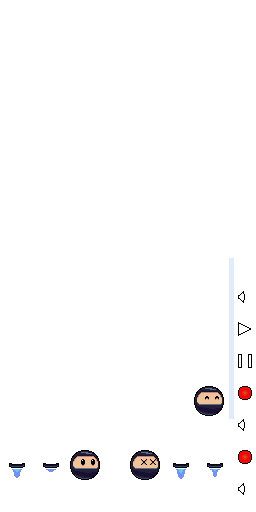
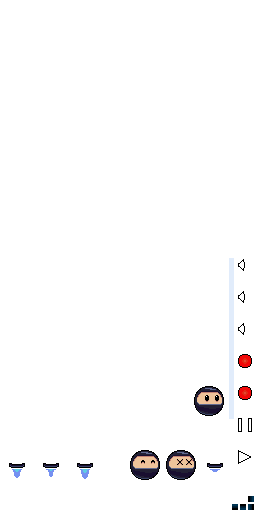
Add files via upload

diff --git a/data.js b/data.js
@@ -1,1 +1,1 @@
-{"project":["Space Cowboy",null,[[0,false,true,true,true,true,true,true,true,false],[2,true,false,false,false,false,false,false,false,false],[3,true,false,false,false,false,false,false,false,false],[4,false,true,true,true,true,true,true,true,false],[6,true,false,false,false,false,false,false,false,false],[7,true,false,false,false,false,false,false,false,false]],[["obj_player",0,false,[475478660255610,235114772657448,759754990357066,369172576946413,189401473353637,768985400023830,915678371539958,958940585535050,191258554294712],1,0,null,[["BallReg",5,false,1,0,false,480393047755055,[["images/shared-0-sheet0.png",9486,69,449,32,32,1,0.5,0.5,[],[],0]]],["BallBlink",5,false,1,0,false,527114630573643,[["images/shared-0-sheet0.png",9486,193,385,32,32,1,0.5,0.5,[],[],0]]],["BallDead",5,false,1,0,false,368496386664004,[["images/shared-0-sheet0.png",9486,129,449,32,32,1,0.5,0.5,[],[],0]]]],[["Physics",1,285668147981242]],false,false,767591352997976,[],null],["obj_death",0,false,[],1,0,null,[["Animation 1",5,false,1,0,false,427797562592884,[["images/shared-0-sheet0.png",9486,237,449,16,16,1,0.5,0.5,[],[-0.375,-0.375,0,-0.5,0.3125,-0.375,0.4375,0,0.3125,0.3125,0,0.4375,-0.375,0.3125,-0.5,0],0]]]],[["Physics",1,235015879555317]],false,false,393649305652718,[],null],["obj_dir",0,false,[],0,0,null,[["BoostOff",5,false,1,0,false,528335494616684,[["images/shared-0-sheet0.png",9486,35,449,32,32,1,0.5,0,[],[0,0.09375,-0.21875,0.5,0,0.15625,-0.21875,0.5],0]]],["BoostOn",20,true,1,0,false,536623433101878,[["images/shared-0-sheet0.png",9486,1,449,32,32,1,0.5,0,[],[],0],["images/shared-0-sheet0.png",9486,199,449,32,32,1,0.5,0,[],[],0],["images/shared-0-sheet0.png",9486,165,449,32,32,1,0.5,0,[],[],0]]]],[],false,false,375676578344658,[],null],["Keyboard",2,false,[],0,0,null,null,[],false,false,940749085455245,[],null,[]],["obj_target",0,false,[401085688764310],0,0,null,[["Animation 1",5,false,1,0,false,535705894602725,[["images/shared-0-sheet0.png",9486,1,433,128,8,1,0.5,0.5,[],[-0.375,-0.375,0,-0.5,0.3125,-0.375,0.4375,0,0.3125,0.3125,0,0.4375,-0.375,0.3125,-0.5,0],0]]]],[],false,false,918124345788002,[],null],["Sprite",0,false,[],1,0,null,[["Animation 1",5,false,1,0,false,270983069689819,[["images/shared-0-sheet0.png",9486,228,257,7,163,1,0.42857142857142855,0.39263803680981596,[],[-0.42857142857142855,-0.38650306748466257,0.5714285714285714,-0.38650306748466257,0.5714285714285714,0.6073619631901841,-0.42857142857142855,0.6073619631901841],0]]]],[["Physics",1,955098228799132]],false,false,709606981210529,[],null],["obj_death_ran",0,false,[],1,0,null,[["Animation 1",5,false,1,0,false,881640508627181,[["images/shared-0-sheet0.png",9486,237,385,16,16,1,0.5,0.5,[],[-0.375,-0.375,0,-0.5,0.3125,-0.375,0.4375,0,0.3125,0.3125,0,0.4375,-0.375,0.3125,-0.5,0],0]]]],[["Physics",1,389150187473823]],false,false,287168445202780,[],null],["Touch",3,false,[],0,0,null,null,[],false,false,683709736571280,[],null,[true]],["txt_score",4,false,[],0,0,null,null,[],false,false,821789348260884,[],null],["HighScore",4,false,[614689598860658],1,0,null,null,[["Persist",5,450925603406630]],false,false,521596468085115,[],null],["obj_pause",0,false,[770781241998109],0,0,null,[["Pause",5,false,1,0,false,257569451720424,[["images/shared-0-sheet0.png",9486,237,353,16,16,1,0.5,0.5,[],[-0.5,-0.5,0.4375,-0.5,0.4375,0,0.4375,0.4375,-0.5,0.4375,-0.5,0],0]]],["Play",5,false,1,0,false,758647843386098,[["images/shared-0-sheet0.png",9486,237,321,16,16,1,0.5,0.5,[],[-0.5,-0.5,0,-0.25,0.125,-0.1875,0.4375,0,0.125,0.125,0,0.1875,-0.5,0.4375,-0.5,0],0]]]],[],false,false,462081807219076,[],null],["obj_sound",0,false,[],0,0,null,[["sound_0",5,false,1,0,false,406058263105111,[["images/shared-0-sheet0.png",9486,237,289,16,16,1,0.5,0.5,[],[-0.25,-0.25,0,-0.1875,0.125,-0.1875,0.25,0,0.125,0.125,0,0.125,-0.25,0.1875,-0.5,0],0]]],["sound_50",5,false,1,0,false,189582158038451,[["images/shared-0-sheet0.png",9486,237,481,16,16,1,0.5,0.5,[],[-0.25,-0.25,0,-0.1875,0.1875,-0.25,0.1875,0,0.1875,0.1875,0,0.125,-0.25,0.1875,-0.5,0],0]]],["sound_100",5,false,1,0,false,486317337061227,[["images/shared-0-sheet0.png",9486,237,417,16,16,1,0.5,0.5,[],[-0.25,-0.25,0,-0.1875,0.375,-0.4375,0.4375,0,0.375,0.375,0,0.125,-0.25,0.1875,-0.5,0],0]]]],[],false,false,906797327259692,[],null],["Audio",6,false,[],0,0,null,null,[],false,false,797499494263671,[],null,[0,0,false,1,1,600,600,10000,1]],["Subtitle",4,false,[],0,0,null,null,[],false,false,960048753552794,[],null],["deb1",4,false,[],0,0,null,null,[],false,false,475523773753119,[],null],["deb2",4,false,[],0,0,null,null,[],false,false,342995062486817,[],null],["GAMEEConnector",7,false,[],0,0,null,null,[],false,false,358125909305743,[],null,[]],["obj_tutorial",0,false,[],0,0,null,[["Animation 1",5,false,1,0,false,383140325107292,[["images/shared-0-sheet0.png",9486,1,1,225,355,1,0.5,0.5,[],[-0.3844444444444445,-0.4267605633802817,0,0.1732394366197183,0.30000000000000004,-0.376056338028169,0.2866666666666666,0,0.25555555555555554,0.34507042253521125,0,0.39859154929577467,-0.3666666666666667,0.4126760563380282,-0.35333333333333333,0],0]]]],[],false,false,531793983603734,[],null]],[],[["Layout 1",270,480,false,"Event sheet 1",172531091609061,[["Layer 1",0,524640039244700,true,[0,24,43],false,1,1,1,false,false,1,0,0,[[[18,133,0,231,200,0,0,1,0,0,0,0,[]],8,13,[],[],["0","Broadway",128,0,false,false,[0,0.3215686274509804,0.3568627450980392],1,1,0,true,0]],[[6,7,0,200,30,0,0,1,0,0,0,0,[]],9,5,[[0]],[[]],["Text","Broadway",12,0,false,false,[0,0.3215686274509804,0.3568627450980392],0,0,0,true,0]],[[253,21,0,16,16,0,0,1,0.5,0.5,0,0,[]],10,15,[[0]],[],[true,"Pause",0,true]],[[221,20,0,16,16,0,0,1,0.5,0.5,0,0,[]],11,16,[],[],[true,"sound_0",0,true]],[[65,448,0,200,30,0,0,1,0,0,0,0,[]],13,18,[],[],["Made by TinyGamesLab","Arial",9,0,true,true,[0,0.3215686274509804,0.3568627450980392],2,2,0,true,0]],[[59,86,0,200,30,0,0,0,0,0,0,0,[]],14,19,[],[],["Text","Arial",12,0,false,false,[1,1,1],0,0,0,true,0]],[[59,125,0,200,30,0,0,0,0,0,0,0,[]],15,20,[],[],["Text","Arial",12,0,false,false,[1,1,1],0,0,0,true,0]],[[138,244,0,225,355,0,0,0.5,0.5,0.5,0,0,[]],17,22,[],[],[true,"Animation 1",0,true]]],[]],["Layer 0",1,448141904110111,true,[4,102,53],true,1,1,1,false,false,1,0,0,[[[132,426,0,128,8,0,0,1,0.5,0.5,0,0,[]],4,6,[[0]],[],[true,"Animation 1",0,true]],[[136,64,0,32,32,0,0,1,0.5,0.5,0,0,[]],0,1,[[4],[1],[0],[1],[0],[20],[200],[3],[0]],[[false,0,true,1,0.5,0.2,0.3,0.01,false,true]],[true,"BallReg",0,true]],[[69,426,0,16,16,0,0,1,0.5,0.5,0,0,[]],1,2,[],[[true,0,false,1,0,1,0,0.01,false,true]],[true,"Animation 1",0,true]],[[206,-45,0,32,32,0,0,1,0.5,0,0,0,[]],2,3,[],[],[true,"BoostOff",0,true]],[[0,188.46625766871165,0,7,480,0,0,1,0.42857142857142855,0.39263803680981596,0,0,[]],5,7,[],[[true,0,false,1,0,1,0,0.01,false,true]],[true,"Animation 1",0,true]],[[270,189,0,7,480,0,0,1,0.42857142857142855,0.39263803680981596,0,0,[]],5,8,[],[[true,0,false,1,0,1,0,0.01,false,true]],[true,"Animation 1",0,true]],[[164,1,0,7,270,0,1.5707963267948966,1,0.42857142857142855,0.39263803680981596,0,0,[]],5,9,[],[[true,0,false,1,0,1,0,0.01,false,true]],[true,"Animation 1",0,true]],[[166,481,0,7,270,0,1.5707963267948966,1,0.42857142857142855,0.39263803680981596,0,0,[]],5,10,[],[[true,0,false,1,0,1,0,0.01,false,true]],[true,"Animation 1",0,true]],[[0,-56,0,16,16,0,0,1,0.5,0.5,0,0,[]],6,11,[],[[true,0,false,1,0,1,0,0.01,false,true]],[true,"Animation 1",0,true]],[[194,426,0,16,16,0,0,1,0.5,0.5,0,0,[]],1,14,[],[[true,0,false,1,0,1,0,0.01,false,true]],[true,"Animation 1",0,true]]],[]]],[],[],[]]],[["Event sheet 1",[[1,"master_sound",0,0,false,false,697209572650760,false],[0,null,false,null,570319428697560,[[16,8,null,1,false,false,false,481338190284571,false,[[3,0]]]],[[-1,9,null,900215295808529,false,[[1,[2,"Inputs"]],[3,1]]],[-1,9,null,388468914997819,false,[[1,[2,"GameRun"]],[3,1]]]]],[0,[false,"GameRun"],false,null,221386439549499,[[-1,10,null,0,false,false,false,0,false,[[1,[2,"GameRun"]]]]],[],[[0,null,false,null,815132243066720,[[-1,11,null,0,false,false,false,195700574472358,false]],[[2,12,null,368593615494693,false,[[0,[4,[20,2,13,false,null],[6,[6,[21,0,false,null,0],[21,0,false,null,1]],[21,0,false,null,3]]]]]],[2,14,null,146690551757353,false,[[0,[20,0,15,false,null]],[0,[20,0,16,false,null]]]],[0,17,"Physics",975852573198349,false,[[0,[1,0]]]],[2,18,null,940803141572906,false],[11,19,null,689997792363173,false,[[1,[10,[2,"sound_"],[19,20,[[6,[23,"master_sound"],[1,100]]]]]],[3,1]]],[12,21,null,163151541229035,false,[[0,[5,[4,[6,[3,[1,199960]],[9,[23,"master_sound"],[1,2]]],[6,[1,299960],[23,"master_sound"]]],[1,100000]]]]]],[[0,null,false,null,778833171206087,[[10,22,null,0,false,false,false,969271731360809,false,[[10,0]]]],[[-1,23,null,146334541674284,false,[[0,[1,0]]]]]],[0,null,false,null,681328343564179,[[-1,24,null,0,false,false,false,294476391078396,false]],[[-1,23,null,480665102286483,false,[[0,[1,1]]]]]],[0,null,false,null,263959749601913,[[0,25,null,0,false,true,false,127089673253294,false,[[10,4],[8,0],[7,[1,0]]]]],[[17,26,null,270129318937918,false,[[0,[1,0]]]]]]]],[0,null,false,null,427689430769369,[[0,27,null,0,false,false,true,683167384328113,false,[[4,4]]]],[[4,28,null,903271280441969,false],[1,28,null,247428763661901,false],[-1,29,null,727120685277688,false,[[4,4],[5,[1,0]],[0,[1,0]],[0,[1,0]]]],[0,30,null,997952488251937,false,[[10,4],[7,[1,1]]]],[16,31,null,161658835388654,false,[[0,[21,0,false,null,4]]]],[8,32,null,217761295152807,false,[[7,[19,20,[[21,0,false,null,4]]]]]],[12,33,null,878847008831396,false,[[2,["powerup",false]],[3,0],[0,[1,0]],[1,[2,""]]]]],[[0,null,false,null,288384124114352,[[-1,34,null,0,false,false,false,349997552239392,false,[[7,[5,[21,0,false,null,4],[6,[19,35,[[7,[21,0,false,null,4],[1,5]]]],[1,5]]]],[8,0],[7,[1,0]]]]],[[-1,29,null,145931734934084,false,[[4,6],[5,[1,0]],[0,[19,36,[[20,6,37,false,null],[5,[19,38],[20,6,37,false,null]]]]],[0,[19,36,[[20,6,39,false,null],[5,[19,40],[20,6,39,false,null]]]]]]]]],[0,null,false,null,292628093531211,[[-1,41,null,0,true,false,false,744953569535536,false]],[[4,42,null,277657435977061,false,[[10,0],[7,[19,36,[[1,0],[1,360]]]]]],[4,43,null,341732708764777,false,[[0,[5,[1,128],[6,[5,[21,0,false,null,4],[6,[19,35,[[7,[21,0,false,null,4],[1,5]]]],[1,5]]],[1,12]]]]]],[4,12,null,685444832077287,false,[[0,[21,4,false,null,0]]]],[4,14,null,611643378897644,false,[[0,[19,36,[[19,44,[[6,[19,45,[[21,4,false,null,0]]],[7,[20,4,37,false,null],[1,2]]]]],[5,[19,38],[19,44,[[6,[19,45,[[21,4,false,null,0]]],[7,[20,4,37,false,null],[1,2]]]]]]]]],[0,[19,36,[[19,44,[[6,[19,46,[[21,4,false,null,0]]],[7,[20,4,37,false,null],[1,2]]]]],[5,[19,40],[19,44,[[6,[19,46,[[21,4,false,null,0]]],[7,[20,4,37,false,null],[1,2]]]]]]]]]]]],[[0,null,false,null,796097882818383,[[-1,34,null,0,false,false,false,887015006721887,false,[[7,[19,47,[[4,[9,[5,[4,[20,4,15,false,null],[6,[19,45,[[21,4,false,null,0]]],[7,[20,4,37,false,null],[1,2]]]],[20,0,15,false,null]],[1,2]],[9,[5,[4,[20,4,16,false,null],[6,[19,46,[[21,4,false,null,0]]],[7,[20,4,37,false,null],[1,2]]]],[20,0,16,false,null]],[1,2]]]]]],[8,5],[7,[1,80]]]],[-1,34,null,0,false,false,false,379923290193694,false,[[7,[19,47,[[4,[9,[5,[5,[20,4,15,false,null],[6,[19,45,[[21,4,false,null,0]]],[7,[20,4,37,false,null],[1,2]]]],[20,0,15,false,null]],[1,2]],[9,[5,[5,[20,4,16,false,null],[6,[19,46,[[21,4,false,null,0]]],[7,[20,4,37,false,null],[1,2]]]],[20,0,16,false,null]],[1,2]]]]]],[8,5],[7,[1,80]]]]],[[-1,29,null,583358809476651,false,[[4,1],[5,[1,0]],[0,[4,[20,4,15,false,null],[6,[19,45,[[21,4,false,null,0]]],[7,[20,4,37,false,null],[1,2]]]]],[0,[4,[20,4,16,false,null],[6,[19,46,[[21,4,false,null,0]]],[7,[20,4,37,false,null],[1,2]]]]]]],[-1,29,null,449614521411888,false,[[4,1],[5,[1,0]],[0,[5,[20,4,15,false,null],[6,[19,45,[[21,4,false,null,0]]],[7,[20,4,37,false,null],[1,2]]]]],[0,[5,[20,4,16,false,null],[6,[19,46,[[21,4,false,null,0]]],[7,[20,4,37,false,null],[1,2]]]]]]],[-1,48,null,233744176713128,false]]]]]]],[0,null,false,null,941716647047889,[[0,27,null,0,false,false,true,175194047019690,false,[[4,1]]]],[[0,49,null,434300220751414,false,[[10,8]]],[12,33,null,533345338946489,false,[[2,["hit",false]],[3,0],[0,[1,0]],[1,[2,""]]]]]],[0,null,false,null,858739160077737,[[0,27,null,0,false,false,true,381298995093493,false,[[4,6]]]],[[0,49,null,232708459838967,false,[[10,8]]],[12,33,null,487875365703441,false,[[2,["hit",false]],[3,0],[0,[1,0]],[1,[2,""]]]]]],[0,null,false,null,340611518637680,[[0,22,null,0,false,false,false,994878213834040,false,[[10,8]]]],[[0,19,null,573784600725015,false,[[1,[2,"BallDead"]],[3,1]]],[-1,9,null,917368113865540,false,[[1,[2,"Inputs"]],[3,0]]],[0,42,null,995449387921734,false,[[10,3],[7,[1,0]]]],[-1,9,null,650306093625026,false,[[1,[2,"EndGame"]],[3,1]]]]]]],[0,[false,"EndGame"],false,null,689964599466642,[[-1,10,null,0,false,false,false,0,false,[[1,[2,"EndGame"]]]]],[],[[0,null,false,null,888781081672292,[[-1,50,null,0,false,false,false,700204780567979,false]],[],[[0,null,false,null,681059029383886,[[-1,34,null,0,false,false,false,115241267643170,false,[[7,[21,9,false,null,0]],[8,3],[7,[21,0,false,null,4]]]]],[[8,51,null,671183154204339,false,[[0,[19,52,[[1,0],[1,91],[1,28]]]]]],[9,53,null,177109417497339,false,[[10,0],[7,[21,0,false,null,4]]]],[-1,54,null,180379981096596,false,[[0,[1,3]]]],[-1,55,null,510851413746240,false],[16,56,null,892343299773913,false]]],[0,null,false,null,242377641482807,[[-1,24,null,0,false,false,false,671848081858361,false]],[[8,51,null,146061260247865,false,[[0,[19,52,[[1,91],[1,10],[1,0]]]]]],[-1,54,null,869623354209671,false,[[0,[1,3]]]],[-1,55,null,619711278841428,false],[16,56,null,996927699436128,false]]]]],[0,null,false,null,395890889753458,[[-1,34,null,0,false,false,false,359814597374365,false,[[7,[21,9,false,null,0]],[8,3],[7,[21,0,false,null,4]]]]],[[8,57,null,657096763255939,false,[[0,[5,[20,8,58,false,null],[1,1]]]]],[8,59,null,971623035872237,false,[[0,[5,[20,8,60,false,null],[1,0.5]]]]]]],[0,null,false,null,456201034990215,[[-1,24,null,0,false,false,false,107849726677575,false]],[[8,57,null,637372514769779,false,[[0,[4,[20,8,58,false,null],[1,1]]]]],[8,59,null,132838555022897,false,[[0,[5,[20,8,60,false,null],[1,0.5]]]]]]]]],[0,[false,"Inputs"],false,null,300098405140787,[[-1,10,null,0,false,false,false,0,false,[[1,[2,"Inputs"]]]]],[],[[0,null,false,null,255932240397024,[[7,61,null,1,false,false,false,261189439914484,false],[0,22,null,0,false,true,false,310848248116588,false,[[10,8]]],[7,62,null,0,false,true,false,368890393294030,false,[[4,10]]],[7,62,null,0,false,true,false,926423744180609,false,[[4,11]]]],[[0,63,"Physics",690390866010477,false,[[0,[19,64,[[21,0,false,null,2],[21,0,false,null,5],[21,0,false,null,6]]]],[0,[5,[20,2,13,false,null],[1,90]]],[7,[1,0]]]],[0,42,null,367015447260806,false,[[10,1],[7,[6,[3,[1,1]],[21,0,false,null,1]]]]],[0,42,null,172108760370649,false,[[10,3],[7,[1,1]]]],[0,42,null,189917004408523,false,[[10,2],[7,[1,1]]]],[2,19,null,126552923974315,false,[[1,[2,"BoostOff"]],[3,1]]],[12,65,null,642550735872787,false,[[1,[2,"chargesound"]]]],[12,33,null,338772082099265,false,[[2,["shoot",false]],[3,0],[0,[1,0]],[1,[2,""]]]]]],[0,null,false,null,908570998519044,[[7,62,null,0,false,true,false,648921319199879,false,[[4,10]]],[7,62,null,0,false,true,false,892838693938744,false,[[4,11]]],[7,66,null,0,false,false,false,938057925361520,false],[0,22,null,0,false,true,false,181483883170536,false,[[10,8]]]],[[0,30,null,372388235013520,false,[[10,2],[7,[1,4]]]],[0,42,null,855061909889665,false,[[10,3],[7,[1,0]]]],[2,19,null,683882505736289,false,[[1,[2,"BoostOn"]],[3,1]]]],[[0,null,false,null,908849890728141,[[-1,50,null,0,false,false,false,650890511889826,false]],[[12,33,null,955856773419606,false,[[2,["charge",false]],[3,1],[0,[3,[1,10]]],[1,[2,"chargesound"]]]]]]]],[0,null,false,null,152345075286665,[[3,67,null,0,false,false,false,768817603747627,false,[[9,32]]]],[[0,30,null,539226365266620,false,[[10,2],[7,[1,4]]]],[0,42,null,118450257947483,false,[[10,3],[7,[1,0]]]],[2,19,null,773187004285008,false,[[1,[2,"BoostOff"]],[3,1]]]]],[0,null,false,null,596646851505261,[[3,68,null,1,false,false,false,929280208629907,false,[[9,32]]]],[[0,63,"Physics",470655644387565,false,[[0,[19,64,[[21,0,false,null,2],[21,0,false,null,5],[21,0,false,null,6]]]],[0,[5,[20,2,13,false,null],[1,90]]],[7,[1,0]]]],[0,42,null,748313442115865,false,[[10,1],[7,[6,[3,[1,1]],[21,0,false,null,1]]]]],[0,42,null,924672570005858,false,[[10,3],[7,[1,1]]]],[0,42,null,378965404943914,false,[[10,2],[7,[1,1]]]],[2,19,null,617437014926204,false,[[1,[2,"BoostOff"]],[3,1]]]]],[0,null,false,null,254381216807868,[[-1,69,null,0,false,false,false,166147071323608,false,[[0,[21,0,false,null,7]]]]],[[0,19,null,162812484525817,false,[[1,[2,"BallBlink"]],[3,1]]],[-1,54,null,679514716812933,false,[[0,[19,36,[[1,0.1],[1,0.5]]]]]],[0,19,null,591591496780670,false,[[1,[2,"BallReg"]],[3,1]]],[0,42,null,323829758630061,false,[[10,7],[7,[19,36,[[1,1],[1,5]]]]]]]]]],[0,[true,"SoundButton"],false,null,641945997093868,[[-1,10,null,0,false,false,false,0,false,[[1,[2,"SoundButton"]]]]],[],[[0,null,false,null,334490485124026,[[7,70,null,1,false,false,false,381591151661784,false,[[4,11]]]],[[-1,71,null,715527895961915,false,[[11,"master_sound"],[7,[1,0.5]]]]],[[0,null,false,null,251820423037268,[[-1,34,null,0,false,false,false,739601135854528,false,[[7,[23,"master_sound"]],[8,4],[7,[1,1]]]]],[[-1,72,null,480228372509868,false,[[11,"master_sound"],[7,[1,0]]]]]]]]]],[0,[true,"PauseButton"],false,null,932402451187886,[[-1,10,null,0,false,false,false,0,false,[[1,[2,"PauseButton"]]]]],[],[[0,null,false,null,392429691439675,[[7,70,null,1,false,false,false,222647356513794,false,[[4,10]]]],[],[[0,null,false,null,294644352954203,[[10,22,null,0,false,true,false,478666752111711,false,[[10,0]]]],[[10,19,null,330294472204434,false,[[1,[2,"Play"]],[3,1]]],[10,49,null,499706299225337,false,[[10,0]]],[-1,9,null,402759323413910,false,[[1,[2,"Inputs"]],[3,0]]],[0,42,null,654015592819223,false,[[10,3],[7,[1,0]]]]]],[0,null,false,null,747270777255869,[[-1,24,null,0,false,false,false,404822755032626,false]],[[10,19,null,479112378446217,false,[[1,[2,"Pause"]],[3,1]]],[-1,9,null,802217660997177,false,[[1,[2,"Inputs"]],[3,1]]],[10,49,null,558141364261436,false,[[10,0]]],[0,42,null,333321403250281,false,[[10,3],[7,[1,1]]]]]]]]]],[0,null,false,null,346349061049157,[[-1,73,null,1,false,false,false,575618891040828,false]],[[9,32,null,798110693251692,false,[[7,[10,[2,"Highscore: "],[19,20,[[21,9,false,null,0]]]]]]],[0,17,"Physics",628312519393014,false,[[0,[1,0]]]]]],[0,null,false,null,988680748479301,[[16,74,null,1,false,false,false,989441627997063,false,[[3,0]]]],[[10,19,null,657918599940795,false,[[1,[2,"Play"]],[3,1]]],[10,75,null,527202054245873,false,[[10,0],[3,1]]],[-1,9,null,629855357894016,false,[[1,[2,"Inputs"]],[3,0]]],[0,42,null,993847553306774,false,[[10,3],[7,[1,0]]]]]],[0,null,false,null,564693722874664,[[16,74,null,1,false,false,false,196024442830984,false,[[3,1]]]],[[10,19,null,553276672211913,false,[[1,[2,"Pause"]],[3,1]]],[-1,9,null,841891737410368,false,[[1,[2,"Inputs"]],[3,1]]],[10,75,null,495332628533369,false,[[10,0],[3,0]]],[0,42,null,618125325818406,false,[[10,3],[7,[1,1]]]]]],[0,null,false,null,467190105753692,[[16,76,null,1,false,false,false,671155116627127,false,[[3,0]]]],[[-1,72,null,140807315816964,false,[[11,"master_sound"],[7,[1,0]]]]]],[0,null,false,null,990714778074506,[[16,76,null,1,false,false,false,628408066891951,false,[[3,1]]]],[[-1,72,null,456890023011125,false,[[11,"master_sound"],[7,[1,1]]]]]]]]],[["hit",[["audio/webm; codecs=opus",".webm",5106]],false],["powerup",[["audio/webm; codecs=opus",".webm",4832]],false],["shoot",[["audio/webm; codecs=opus",".webm",11783]],false],["charge",[["audio/webm; codecs=opus",".webm",37199]],false]],"media/",true,270,480,5,true,false,true,"1.0.0.0",true,false,4,1,23,false,false,1,true,false,[],"icons/",[],true]}
+{"project":["Space Cowboy",null,[[0,false,true,true,true,true,true,true,true,false],[2,true,false,false,false,false,false,false,false,false],[3,true,false,false,false,false,false,false,false,false],[4,false,true,true,true,true,true,true,true,false],[6,true,false,false,false,false,false,false,false,false],[7,true,false,false,false,false,false,false,false,false]],[["obj_player",0,false,[475478660255610,235114772657448,759754990357066,369172576946413,189401473353637,768985400023830,915678371539958,958940585535050,191258554294712],1,0,null,[["BallReg",5,false,1,0,false,480393047755055,[["images/shared-0-sheet0.png",9767,193,385,32,32,1,0.5,0.5,[],[],0]]],["BallBlink",5,false,1,0,false,527114630573643,[["images/shared-0-sheet0.png",9767,129,449,32,32,1,0.5,0.5,[],[],0]]],["BallDead",5,false,1,0,false,368496386664004,[["images/shared-0-sheet0.png",9767,165,449,32,32,1,0.5,0.5,[],[],0]]]],[["Physics",1,285668147981242]],false,false,767591352997976,[],null],["obj_death",0,false,[],1,0,null,[["Animation 1",5,false,1,0,false,427797562592884,[["images/shared-0-sheet0.png",9767,237,353,16,16,1,0.5,0.5,[],[-0.375,-0.375,0,-0.5,0.3125,-0.375,0.4375,0,0.3125,0.3125,0,0.4375,-0.375,0.3125,-0.5,0],0]]]],[["Physics",1,235015879555317]],false,false,393649305652718,[],null],["obj_dir",0,false,[],0,0,null,[["BoostOff",5,false,1,0,false,528335494616684,[["images/shared-0-sheet0.png",9767,199,449,32,32,1,0.5,0,[],[0,0.09375,-0.21875,0.5,0,0.15625,-0.21875,0.5],0]]],["BoostOn",20,true,1,0,false,536623433101878,[["images/shared-0-sheet0.png",9767,1,449,32,32,1,0.5,0,[],[],0],["images/shared-0-sheet0.png",9767,35,449,32,32,1,0.5,0,[],[],0],["images/shared-0-sheet0.png",9767,69,449,32,32,1,0.5,0,[],[],0]]]],[],false,false,375676578344658,[],null],["Keyboard",2,false,[],0,0,null,null,[],false,false,940749085455245,[],null,[]],["obj_target",0,false,[401085688764310],0,0,null,[["Animation 1",5,false,1,0,false,535705894602725,[["images/shared-0-sheet0.png",9767,1,433,128,8,1,0.5,0.5,[],[-0.375,-0.375,0,-0.5,0.3125,-0.375,0.4375,0,0.3125,0.3125,0,0.4375,-0.375,0.3125,-0.5,0],0]]]],[],false,false,918124345788002,[],null],["Sprite",0,false,[],1,0,null,[["Animation 1",5,false,1,0,false,270983069689819,[["images/shared-0-sheet0.png",9767,228,257,7,163,1,0.42857142857142855,0.39263803680981596,[],[-0.42857142857142855,-0.38650306748466257,0.5714285714285714,-0.38650306748466257,0.5714285714285714,0.6073619631901841,-0.42857142857142855,0.6073619631901841],0]]]],[["Physics",1,955098228799132]],false,false,709606981210529,[],null],["obj_death_ran",0,false,[],1,0,null,[["Animation 1",5,false,1,0,false,881640508627181,[["images/shared-0-sheet0.png",9767,237,385,16,16,1,0.5,0.5,[],[-0.375,-0.375,0,-0.5,0.3125,-0.375,0.4375,0,0.3125,0.3125,0,0.4375,-0.375,0.3125,-0.5,0],0]]]],[["Physics",1,389150187473823]],false,false,287168445202780,[],null],["Touch",3,false,[],0,0,null,null,[],false,false,683709736571280,[],null,[true]],["txt_score",4,false,[],0,0,null,null,[],false,false,821789348260884,[],null],["HighScore",4,false,[614689598860658,383595969520068],1,0,null,null,[["Persist",5,450925603406630]],false,false,521596468085115,[],null],["obj_pause",0,false,[770781241998109],0,0,null,[["Pause",5,false,1,0,false,257569451720424,[["images/shared-0-sheet0.png",9767,237,417,16,16,1,0.5,0.5,[],[-0.5,-0.5,0.4375,-0.5,0.4375,0,0.4375,0.4375,-0.5,0.4375,-0.5,0],0]]],["Play",5,false,1,0,false,758647843386098,[["images/shared-0-sheet0.png",9767,237,449,16,16,1,0.5,0.5,[],[-0.5,-0.5,0,-0.25,0.125,-0.1875,0.4375,0,0.125,0.125,0,0.1875,-0.5,0.4375,-0.5,0],0]]]],[],false,false,462081807219076,[],null],["obj_sound",0,false,[],0,0,null,[["sound_0",5,false,1,0,false,406058263105111,[["images/shared-0-sheet0.png",9767,237,257,16,16,1,0.5,0.5,[],[-0.25,-0.25,0,-0.1875,0.125,-0.1875,0.25,0,0.125,0.125,0,0.125,-0.25,0.1875,-0.5,0],0]]],["sound_50",5,false,1,0,false,189582158038451,[["images/shared-0-sheet0.png",9767,237,289,16,16,1,0.5,0.5,[],[-0.25,-0.25,0,-0.1875,0.1875,-0.25,0.1875,0,0.1875,0.1875,0,0.125,-0.25,0.1875,-0.5,0],0]]],["sound_100",5,false,1,0,false,486317337061227,[["images/shared-0-sheet0.png",9767,237,321,16,16,1,0.5,0.5,[],[-0.25,-0.25,0,-0.1875,0.375,-0.4375,0.4375,0,0.375,0.375,0,0.125,-0.25,0.1875,-0.5,0],0]]]],[],false,false,906797327259692,[],null],["Audio",6,false,[],0,0,null,null,[],false,false,797499494263671,[],null,[0,0,false,1,1,600,600,10000,1]],["Subtitle",4,false,[],0,0,null,null,[],false,false,960048753552794,[],null],["deb1",4,false,[],0,0,null,null,[],false,false,475523773753119,[],null],["deb2",4,false,[],0,0,null,null,[],false,false,342995062486817,[],null],["GAMEEConnector",7,false,[],0,0,null,null,[],false,false,358125909305743,[],null,[]],["obj_tutorial",0,false,[],0,0,null,[["Animation 1",5,false,1,0,false,383140325107292,[["images/shared-0-sheet0.png",9767,1,1,225,355,1,0.5,0.5,[],[-0.3844444444444445,-0.4267605633802817,0,0.1732394366197183,0.30000000000000004,-0.376056338028169,0.2866666666666666,0,0.25555555555555554,0.34507042253521125,0,0.39859154929577467,-0.3666666666666667,0.4126760563380282,-0.35333333333333333,0],0]]]],[],false,false,531793983603734,[],null],["Border_L",0,false,[],1,0,null,[["Animation 1",5,false,1,0,false,328056703504428,[["images/shared-0-sheet0.png",9767,249,497,4,4,1,0.5,0.5,[],[-0.5,-0.5,0,-0.5,0.25,-0.5,0.25,0,0.25,0.25,0,0.25,-0.5,0.25,-0.5,0],0]]]],[["Physics",1,845452133785162]],false,false,286932285499222,[],null],["Border_T",0,false,[],1,0,null,[["Animation 1",5,false,1,0,false,487713507721194,[["images/shared-0-sheet0.png",9767,241,505,4,4,1,0.5,0.5,[],[-0.5,-0.5,0,-0.5,0.25,-0.5,0.25,0,0.25,0.25,0,0.25,-0.5,0.25,-0.5,0],0]]]],[["Physics",1,488738463141027]],false,false,187381117609735,[],null],["Border_R",0,false,[],1,0,null,[["Animation 1",5,false,1,0,false,606247639170209,[["images/shared-0-sheet0.png",9767,249,505,4,4,1,0.5,0.5,[],[-0.5,-0.5,0,-0.5,0.25,-0.5,0.25,0,0.25,0.25,0,0.25,-0.5,0.25,-0.5,0],0]]]],[["Physics",1,815349400353158]],false,false,636096765433324,[],null],["Border_D",0,false,[],1,0,null,[["Animation 1",5,false,1,0,false,311701169541669,[["images/shared-0-sheet0.png",9767,233,505,4,4,1,0.5,0.5,[],[-0.5,-0.5,0,-0.5,0.25,-0.5,0.25,0,0.25,0.25,0,0.25,-0.5,0.25,-0.5,0],0]]]],[["Physics",1,845984739317299]],false,false,384362185433336,[],null]],[],[["Layout 1",270,480,false,"Event sheet 1",172531091609061,[["Layer 1",0,524640039244700,true,[0,24,43],false,1,1,1,false,false,1,0,0,[[[18,133,0,231,200,0,0,1,0,0,0,0,[]],8,13,[],[],["0","Broadway",128,0,false,false,[0,0.3215686274509804,0.3568627450980392],1,1,0,true,0]],[[6,7,0,200,30,0,0,1,0,0,0,0,[]],9,5,[[0],[0]],[[]],["Text","Broadway",12,0,false,false,[0,0.3215686274509804,0.3568627450980392],0,0,0,true,0]],[[253,21,0,16,16,0,0,1,0.5,0.5,0,0,[]],10,15,[[0]],[],[true,"Pause",0,true]],[[221,20,0,16,16,0,0,1,0.5,0.5,0,0,[]],11,16,[],[],[true,"sound_0",0,true]],[[65,448,0,200,30,0,0,1,0,0,0,0,[]],13,18,[],[],["Made by TinyGamesLab","Arial",9,0,true,true,[0,0.3215686274509804,0.3568627450980392],2,2,0,true,0]],[[59,86,0,200,30,0,0,0,0,0,0,0,[]],14,19,[],[],["Text","Arial",12,0,false,false,[1,1,1],0,0,0,true,0]],[[59,125,0,200,30,0,0,0,0,0,0,0,[]],15,20,[],[],["Text","Arial",12,0,false,false,[1,1,1],0,0,0,true,0]],[[138,244,0,225,355,0,0,0.5,0.5,0.5,0,0,[]],17,22,[],[],[true,"Animation 1",0,true]],[[321,77,0,4,4,0,0,1,0.5,0.5,0,0,[]],18,23,[],[[true,0,false,1,0,1,0,0.01,false,true]],[true,"Animation 1",0,true]],[[321,99,0,4,4,0,0,1,0.5,0.5,0,0,[]],19,24,[],[[true,0,false,1,0,1,0,0.01,false,true]],[true,"Animation 1",0,true]],[[317,138,0,4,4,0,0,1,0.5,0.5,0,0,[]],20,25,[],[[true,0,false,1,0,1,0,0.01,false,true]],[true,"Animation 1",0,true]],[[318,182,0,4,4,0,0,1,0.5,0.5,0,0,[]],21,26,[],[[true,0,false,1,0,1,0,0.01,false,true]],[true,"Animation 1",0,true]]],[]],["Layer 0",1,448141904110111,true,[4,102,53],true,1,1,1,false,false,1,0,0,[[[132,426,0,128,8,0,0,1,0.5,0.5,0,0,[]],4,6,[[0]],[],[true,"Animation 1",0,true]],[[136,64,0,32,32,0,0,1,0.5,0.5,0,0,[]],0,1,[[4],[1],[0],[1],[0],[20],[200],[3],[0]],[[false,0,true,1,0.5,0.2,0.3,0.01,false,true]],[true,"BallReg",0,true]],[[69,426,0,16,16,0,0,1,0.5,0.5,0,0,[]],1,2,[],[[true,0,false,1,0,1,0,0.01,false,true]],[true,"Animation 1",0,true]],[[44,-278,0,32,32,0,0,1,0.5,0,0,0,[]],2,3,[],[],[true,"BoostOff",0,true]],[[7,-263,0,16,16,0,0,1,0.5,0.5,0,0,[]],6,11,[],[[true,0,false,1,0,1,0,0.01,false,true]],[true,"Animation 1",0,true]],[[194,426,0,16,16,0,0,1,0.5,0.5,0,0,[]],1,14,[],[[true,0,false,1,0,1,0,0.01,false,true]],[true,"Animation 1",0,true]]],[]]],[],[],[]]],[["Event sheet 1",[[1,"master_sound",0,0,false,false,697209572650760,false],[1,"HGscore",0,0,false,false,821685692765458,false],[0,null,false,null,570319428697560,[[16,8,null,1,false,false,false,481338190284571,false,[[3,0]]]],[[-1,9,null,900215295808529,false,[[1,[2,"Inputs"]],[3,1]]],[-1,9,null,388468914997819,false,[[1,[2,"GameRun"]],[3,1]]],[9,10,null,121967349175681,false,[[10,0],[7,[19,11,[[20,16,12,true,null]]]]]],[9,13,null,674322832054628,false,[[7,[10,[2,"Best: "],[19,14,[[21,9,false,null,0]]]]]]]]],[0,[false,"GameRun"],false,null,221386439549499,[[-1,15,null,0,false,false,false,0,false,[[1,[2,"GameRun"]]]]],[],[[0,null,false,null,815132243066720,[[-1,16,null,0,false,false,false,195700574472358,false]],[[2,17,null,368593615494693,false,[[0,[4,[20,2,18,false,null],[6,[6,[21,0,false,null,0],[21,0,false,null,1]],[21,0,false,null,3]]]]]],[2,19,null,146690551757353,false,[[0,[20,0,20,false,null]],[0,[20,0,21,false,null]]]],[0,22,"Physics",975852573198349,false,[[0,[1,0]]]],[2,23,null,940803141572906,false],[11,24,null,689997792363173,false,[[1,[10,[2,"sound_"],[19,14,[[6,[23,"master_sound"],[1,100]]]]]],[3,1]]],[12,25,null,163151541229035,false,[[0,[5,[4,[6,[3,[1,199960]],[9,[23,"master_sound"],[1,2]]],[6,[1,299960],[23,"master_sound"]]],[1,100000]]]]],[9,10,null,602806803646157,false,[[10,1],[7,[23,"master_sound"]]]],[21,26,null,324228834803169,false,[[0,[19,27]]]],[21,19,null,375336198313428,false,[[0,[7,[19,27],[1,2]]],[0,[5,[19,28],[1,2]]]]],[19,26,null,876245558492124,false,[[0,[19,27]]]],[19,19,null,857795581321387,false,[[0,[7,[19,27],[1,2]]],[0,[1,2]]]],[18,29,null,513735484882043,false,[[0,[19,28]]]],[18,19,null,625535714606470,false,[[0,[1,2]],[0,[7,[19,28],[1,2]]]]],[20,29,null,152119080778174,false,[[0,[19,28]]]],[20,19,null,168327772300898,false,[[0,[5,[19,27],[1,2]]],[0,[7,[19,28],[1,2]]]]]],[[0,null,false,null,778833171206087,[[10,30,null,0,false,false,false,969271731360809,false,[[10,0]]]],[[-1,31,null,146334541674284,false,[[0,[1,0]]]]]],[0,null,false,null,681328343564179,[[-1,32,null,0,false,false,false,294476391078396,false]],[[-1,31,null,480665102286483,false,[[0,[1,1]]]]]],[0,null,false,null,263959749601913,[[0,33,null,0,false,true,false,127089673253294,false,[[10,4],[8,0],[7,[1,0]]]]],[[17,34,null,121990937544805,false,[[0,[19,35,[[5,[20,17,36,false,null],[1,0.5]],[1,0]]]]]]]]]],[0,null,false,null,427689430769369,[[0,37,null,0,false,false,true,683167384328113,false,[[4,4]]]],[[4,38,null,903271280441969,false],[1,38,null,247428763661901,false],[-1,39,null,727120685277688,false,[[4,4],[5,[1,0]],[0,[1,0]],[0,[1,0]]]],[0,40,null,997952488251937,false,[[10,4],[7,[1,1]]]],[16,41,null,161658835388654,false,[[0,[21,0,false,null,4]]]],[8,13,null,217761295152807,false,[[7,[19,14,[[21,0,false,null,4]]]]]],[12,42,null,878847008831396,false,[[2,["powerup",false]],[3,0],[0,[1,0]],[1,[2,""]]]],[16,43,null,887305460328382,false,[[1,[19,14,[[19,35,[[21,0,false,null,4],[21,9,false,null,0]]]]]]]]],[[0,null,false,null,288384124114352,[[-1,44,null,0,false,false,false,349997552239392,false,[[7,[5,[21,0,false,null,4],[6,[19,45,[[7,[21,0,false,null,4],[1,5]]]],[1,5]]]],[8,0],[7,[1,0]]]]],[[-1,39,null,404323787285371,false,[[4,6],[5,[1,0]],[0,[19,46,[[20,6,47,false,null],[5,[19,48],[20,6,47,false,null]]]]],[0,[19,46,[[20,6,49,false,null],[5,[19,50],[20,6,49,false,null]]]]]]]]],[0,null,false,null,292628093531211,[[-1,51,null,0,true,false,false,744953569535536,false]],[[4,52,null,277657435977061,false,[[10,0],[7,[19,46,[[1,0],[1,360]]]]]],[4,26,null,341732708764777,false,[[0,[5,[1,128],[6,[5,[21,0,false,null,4],[6,[19,45,[[7,[21,0,false,null,4],[1,5]]]],[1,5]]],[1,12]]]]]],[4,17,null,685444832077287,false,[[0,[21,4,false,null,0]]]],[4,19,null,886148129603496,false,[[0,[19,46,[[19,53,[[6,[19,54,[[21,4,false,null,0]]],[7,[20,4,47,false,null],[1,2]]]]],[5,[19,48],[19,53,[[6,[19,54,[[21,4,false,null,0]]],[7,[20,4,47,false,null],[1,2]]]]]]]]],[0,[19,46,[[19,53,[[6,[19,55,[[21,4,false,null,0]]],[7,[20,4,47,false,null],[1,2]]]]],[5,[19,50],[19,53,[[6,[19,55,[[21,4,false,null,0]]],[7,[20,4,47,false,null],[1,2]]]]]]]]]]]],[[0,null,false,null,796097882818383,[[-1,44,null,0,false,false,false,887015006721887,false,[[7,[19,56,[[4,[9,[5,[4,[20,4,20,false,null],[6,[19,54,[[21,4,false,null,0]]],[7,[20,4,47,false,null],[1,2]]]],[20,0,20,false,null]],[1,2]],[9,[5,[4,[20,4,21,false,null],[6,[19,55,[[21,4,false,null,0]]],[7,[20,4,47,false,null],[1,2]]]],[20,0,21,false,null]],[1,2]]]]]],[8,5],[7,[1,80]]]],[-1,44,null,0,false,false,false,379923290193694,false,[[7,[19,56,[[4,[9,[5,[5,[20,4,20,false,null],[6,[19,54,[[21,4,false,null,0]]],[7,[20,4,47,false,null],[1,2]]]],[20,0,20,false,null]],[1,2]],[9,[5,[5,[20,4,21,false,null],[6,[19,55,[[21,4,false,null,0]]],[7,[20,4,47,false,null],[1,2]]]],[20,0,21,false,null]],[1,2]]]]]],[8,5],[7,[1,80]]]]],[[-1,39,null,583358809476651,false,[[4,1],[5,[1,0]],[0,[4,[20,4,20,false,null],[6,[19,54,[[21,4,false,null,0]]],[7,[20,4,47,false,null],[1,2]]]]],[0,[4,[20,4,21,false,null],[6,[19,55,[[21,4,false,null,0]]],[7,[20,4,47,false,null],[1,2]]]]]]],[-1,39,null,449614521411888,false,[[4,1],[5,[1,0]],[0,[5,[20,4,20,false,null],[6,[19,54,[[21,4,false,null,0]]],[7,[20,4,47,false,null],[1,2]]]]],[0,[5,[20,4,21,false,null],[6,[19,55,[[21,4,false,null,0]]],[7,[20,4,47,false,null],[1,2]]]]]]],[-1,57,null,233744176713128,false]]]]]]],[0,null,false,null,941716647047889,[[0,37,null,0,false,false,true,175194047019690,false,[[4,1]]]],[[0,58,null,434300220751414,false,[[10,8]]],[12,59,null,617678370617471,false],[12,42,null,533345338946489,false,[[2,["hit",false]],[3,0],[0,[1,0]],[1,[2,""]]]]]],[0,null,false,null,858739160077737,[[0,37,null,0,false,false,true,381298995093493,false,[[4,6]]]],[[0,58,null,232708459838967,false,[[10,8]]],[12,59,null,551997119010546,false],[12,42,null,487875365703441,false,[[2,["hit",false]],[3,0],[0,[1,0]],[1,[2,""]]]]]],[0,null,false,null,340611518637680,[[0,30,null,0,false,false,false,994878213834040,false,[[10,8]]]],[[0,24,null,573784600725015,false,[[1,[2,"BallDead"]],[3,1]]],[-1,9,null,917368113865540,false,[[1,[2,"Inputs"]],[3,0]]],[0,52,null,995449387921734,false,[[10,3],[7,[1,0]]]],[-1,9,null,650306093625026,false,[[1,[2,"EndGame"]],[3,1]]]]]]],[0,[false,"EndGame"],false,null,689964599466642,[[-1,15,null,0,false,false,false,0,false,[[1,[2,"EndGame"]]]]],[],[[0,null,false,null,888781081672292,[[-1,60,null,0,false,false,false,700204780567979,false]],[],[[0,null,false,null,681059029383886,[[-1,44,null,0,false,false,false,115241267643170,false,[[7,[21,9,false,null,0]],[8,3],[7,[21,0,false,null,4]]]]],[[8,61,null,671183154204339,false,[[0,[19,62,[[1,0],[1,91],[1,28]]]]]],[9,10,null,177109417497339,false,[[10,0],[7,[21,0,false,null,4]]]],[-1,63,null,180379981096596,false,[[0,[1,3]]]],[-1,64,null,510851413746240,false],[16,65,null,892343299773913,false]]],[0,null,false,null,242377641482807,[[-1,32,null,0,false,false,false,671848081858361,false]],[[8,61,null,146061260247865,false,[[0,[19,62,[[1,91],[1,10],[1,0]]]]]],[-1,63,null,869623354209671,false,[[0,[1,3]]]],[-1,64,null,619711278841428,false],[16,65,null,996927699436128,false]]]]],[0,null,false,null,395890889753458,[[-1,44,null,0,false,false,false,359814597374365,false,[[7,[21,9,false,null,0]],[8,3],[7,[21,0,false,null,4]]]]],[[8,66,null,657096763255939,false,[[0,[5,[20,8,67,false,null],[1,1]]]]],[8,68,null,971623035872237,false,[[0,[5,[20,8,69,false,null],[1,0.5]]]]]]],[0,null,false,null,456201034990215,[[-1,32,null,0,false,false,false,107849726677575,false]],[[8,66,null,637372514769779,false,[[0,[4,[20,8,67,false,null],[1,1]]]]],[8,68,null,132838555022897,false,[[0,[5,[20,8,69,false,null],[1,0.5]]]]]]]]],[0,[false,"Inputs"],false,null,300098405140787,[[-1,15,null,0,false,false,false,0,false,[[1,[2,"Inputs"]]]]],[],[[0,null,false,null,255932240397024,[[7,70,null,1,false,false,false,261189439914484,false],[0,30,null,0,false,true,false,310848248116588,false,[[10,8]]],[7,71,null,0,false,true,false,368890393294030,false,[[4,10]]],[7,71,null,0,false,true,false,926423744180609,false,[[4,11]]]],[[0,72,"Physics",690390866010477,false,[[0,[19,73,[[21,0,false,null,2],[21,0,false,null,5],[21,0,false,null,6]]]],[0,[5,[20,2,18,false,null],[1,90]]],[7,[1,0]]]],[0,52,null,367015447260806,false,[[10,1],[7,[6,[3,[1,1]],[21,0,false,null,1]]]]],[0,52,null,172108760370649,false,[[10,3],[7,[1,1]]]],[0,52,null,189917004408523,false,[[10,2],[7,[1,1]]]],[2,24,null,126552923974315,false,[[1,[2,"BoostOff"]],[3,1]]],[12,74,null,642550735872787,false,[[1,[2,"chargesound"]]]],[12,42,null,338772082099265,false,[[2,["shoot",false]],[3,0],[0,[1,0]],[1,[2,""]]]]]],[0,null,false,null,908570998519044,[[7,71,null,0,false,true,false,648921319199879,false,[[4,10]]],[7,71,null,0,false,true,false,892838693938744,false,[[4,11]]],[7,75,null,0,false,false,false,938057925361520,false],[0,30,null,0,false,true,false,181483883170536,false,[[10,8]]]],[[0,40,null,372388235013520,false,[[10,2],[7,[1,4]]]],[0,52,null,855061909889665,false,[[10,3],[7,[1,0]]]],[2,24,null,683882505736289,false,[[1,[2,"BoostOn"]],[3,1]]]],[[0,null,false,null,908849890728141,[[-1,60,null,0,false,false,false,650890511889826,false]],[[12,42,null,955856773419606,false,[[2,["charge",false]],[3,1],[0,[3,[1,10]]],[1,[2,"chargesound"]]]]]]]],[0,null,false,null,152345075286665,[[3,76,null,0,false,false,false,768817603747627,false,[[9,32]]]],[[0,40,null,539226365266620,false,[[10,2],[7,[1,4]]]],[0,52,null,118450257947483,false,[[10,3],[7,[1,0]]]],[2,24,null,773187004285008,false,[[1,[2,"BoostOff"]],[3,1]]]]],[0,null,false,null,596646851505261,[[3,77,null,1,false,false,false,929280208629907,false,[[9,32]]]],[[0,72,"Physics",470655644387565,false,[[0,[19,73,[[21,0,false,null,2],[21,0,false,null,5],[21,0,false,null,6]]]],[0,[5,[20,2,18,false,null],[1,90]]],[7,[1,0]]]],[0,52,null,748313442115865,false,[[10,1],[7,[6,[3,[1,1]],[21,0,false,null,1]]]]],[0,52,null,924672570005858,false,[[10,3],[7,[1,1]]]],[0,52,null,378965404943914,false,[[10,2],[7,[1,1]]]],[2,24,null,617437014926204,false,[[1,[2,"BoostOff"]],[3,1]]]]],[0,null,false,null,254381216807868,[[-1,78,null,0,false,false,false,166147071323608,false,[[0,[21,0,false,null,7]]]]],[[0,24,null,162812484525817,false,[[1,[2,"BallBlink"]],[3,1]]],[-1,63,null,679514716812933,false,[[0,[19,46,[[1,0.1],[1,0.5]]]]]],[0,24,null,591591496780670,false,[[1,[2,"BallReg"]],[3,1]]],[0,52,null,323829758630061,false,[[10,7],[7,[19,46,[[1,1],[1,5]]]]]]]]]],[0,[true,"SoundButton"],false,null,641945997093868,[[-1,15,null,0,false,false,false,0,false,[[1,[2,"SoundButton"]]]]],[],[[0,null,false,null,334490485124026,[[7,79,null,1,false,false,false,381591151661784,false,[[4,11]]]],[[-1,80,null,715527895961915,false,[[11,"master_sound"],[7,[1,0.5]]]]],[[0,null,false,null,251820423037268,[[-1,44,null,0,false,false,false,739601135854528,false,[[7,[23,"master_sound"]],[8,4],[7,[1,1]]]]],[[-1,81,null,480228372509868,false,[[11,"master_sound"],[7,[1,0]]]]]]]]]],[0,[true,"PauseButton"],false,null,932402451187886,[[-1,15,null,0,false,false,false,0,false,[[1,[2,"PauseButton"]]]]],[],[[0,null,false,null,392429691439675,[[7,79,null,1,false,false,false,222647356513794,false,[[4,10]]]],[],[[0,null,false,null,294644352954203,[[10,30,null,0,false,true,false,478666752111711,false,[[10,0]]]],[[10,24,null,330294472204434,false,[[1,[2,"Play"]],[3,1]]],[10,58,null,499706299225337,false,[[10,0]]],[-1,9,null,402759323413910,false,[[1,[2,"Inputs"]],[3,0]]],[0,52,null,654015592819223,false,[[10,3],[7,[1,0]]]]]],[0,null,false,null,747270777255869,[[-1,32,null,0,false,false,false,404822755032626,false]],[[10,24,null,479112378446217,false,[[1,[2,"Pause"]],[3,1]]],[-1,9,null,802217660997177,false,[[1,[2,"Inputs"]],[3,1]]],[10,58,null,558141364261436,false,[[10,0]]],[0,52,null,333321403250281,false,[[10,3],[7,[1,1]]]]]]]]]],[0,null,false,null,346349061049157,[[-1,82,null,1,false,false,false,575618891040828,false]],[[9,13,null,109791629263845,false,[[7,[10,[2,"Best: "],[19,14,[[21,9,false,null,0]]]]]]],[0,22,"Physics",628312519393014,false,[[0,[1,0]]]],[-1,81,null,524222242601513,false,[[11,"master_sound"],[7,[21,9,false,null,1]]]],[21,19,null,215379929869551,false,[[0,[7,[19,27],[1,2]]],[0,[5,[19,28],[1,2]]]]],[21,26,null,154113070201958,false,[[0,[19,27]]]],[19,19,null,433048197462499,false,[[0,[7,[19,27],[1,2]]],[0,[1,2]]]],[19,26,null,994016369344813,false,[[0,[19,27]]]],[18,19,null,400892735932526,false,[[0,[1,2]],[0,[7,[19,28],[1,2]]]]],[18,29,null,796554103276531,false,[[0,[19,28]]]],[20,19,null,158998259469797,false,[[0,[5,[19,27],[1,2]]],[0,[7,[19,28],[1,2]]]]],[20,29,null,113662216489452,false,[[0,[19,28]]]]],[[0,null,false,null,591819889198734,[[-1,44,null,0,false,false,false,111636566211847,false,[[7,[19,11,[[20,16,12,true,null]]]],[8,4],[7,[21,9,false,null,0]]]]],[[9,10,null,536511933251045,false,[[10,0],[7,[19,11,[[20,16,12,true,null]]]]]],[9,13,null,884742838487260,false,[[7,[10,[2,"Best: "],[19,14,[[21,9,false,null,0]]]]]]]]]]],[0,null,false,null,988680748479301,[[16,83,null,1,false,false,false,989441627997063,false,[[3,0]]]],[[10,24,null,657918599940795,false,[[1,[2,"Play"]],[3,1]]],[10,84,null,527202054245873,false,[[10,0],[3,1]]],[-1,9,null,629855357894016,false,[[1,[2,"Inputs"]],[3,0]]],[0,52,null,993847553306774,false,[[10,3],[7,[1,0]]]]]],[0,null,false,null,564693722874664,[[16,83,null,1,false,false,false,196024442830984,false,[[3,1]]]],[[10,24,null,553276672211913,false,[[1,[2,"Pause"]],[3,1]]],[-1,9,null,841891737410368,false,[[1,[2,"Inputs"]],[3,1]]],[10,84,null,495332628533369,false,[[10,0],[3,0]]],[0,52,null,618125325818406,false,[[10,3],[7,[1,1]]]]]],[0,null,false,null,467190105753692,[[16,85,null,1,false,false,false,671155116627127,false,[[3,0]]]],[[-1,81,null,140807315816964,false,[[11,"master_sound"],[7,[1,0]]]]]],[0,null,false,null,990714778074506,[[16,85,null,1,false,false,false,628408066891951,false,[[3,1]]]],[[-1,81,null,456890023011125,false,[[11,"master_sound"],[7,[1,1]]]]]]]]],[["hit",[["audio/webm; codecs=opus",".webm",5106]],false],["powerup",[["audio/webm; codecs=opus",".webm",4832]],false],["shoot",[["audio/webm; codecs=opus",".webm",11783]],false],["charge",[["audio/webm; codecs=opus",".webm",37199]],false]],"media/",true,270,480,3,true,false,true,"1.0.0.0",true,false,4,1,27,false,true,1,true,false,[],"icons/",[],true]}

diff --git a/c2runtime.js b/c2runtime.js
@@ -31749,6 +31749,11 @@ cr.getObjectRefTable = function () {
 		cr.plugins_.GAMEEConnector,
 		cr.plugins_.GAMEEConnector.prototype.cnds.onGameStart,
 		cr.system_object.prototype.acts.SetGroupActive,
+		cr.plugins_.Text.prototype.acts.SetInstanceVar,
+		cr.system_object.prototype.exps["int"],
+		cr.plugins_.GAMEEConnector.prototype.exps.SaveState,
+		cr.plugins_.Text.prototype.acts.SetText,
+		cr.system_object.prototype.exps.str,
 		cr.system_object.prototype.cnds.IsGroupActive,
 		cr.system_object.prototype.cnds.EveryTick,
 		cr.plugins_.Sprite.prototype.acts.SetAngle,
@@ -31759,40 +31764,44 @@ cr.getObjectRefTable = function () {
 		cr.behaviors.Physics.prototype.acts.SetWorldGravity,
 		cr.plugins_.Sprite.prototype.acts.MoveToBottom,
 		cr.plugins_.Sprite.prototype.acts.SetAnim,
-		cr.system_object.prototype.exps.str,
 		cr.plugins_.Audio.prototype.acts.SetMasterVolume,
+		cr.plugins_.Sprite.prototype.acts.SetWidth,
+		cr.system_object.prototype.exps.windowwidth,
+		cr.system_object.prototype.exps.windowheight,
+		cr.plugins_.Sprite.prototype.acts.SetHeight,
 		cr.plugins_.Sprite.prototype.cnds.IsBoolInstanceVarSet,
 		cr.system_object.prototype.acts.SetTimescale,
 		cr.system_object.prototype.cnds.Else,
 		cr.plugins_.Sprite.prototype.cnds.CompareInstanceVar,
 		cr.plugins_.Sprite.prototype.acts.SetOpacity,
+		cr.system_object.prototype.exps.max,
+		cr.plugins_.Sprite.prototype.exps.Opacity,
 		cr.plugins_.Sprite.prototype.cnds.OnCollision,
 		cr.plugins_.Sprite.prototype.acts.Destroy,
 		cr.system_object.prototype.acts.CreateObject,
 		cr.plugins_.Sprite.prototype.acts.AddInstanceVar,
 		cr.plugins_.GAMEEConnector.prototype.acts.UpdateScore,
-		cr.plugins_.Text.prototype.acts.SetText,
 		cr.plugins_.Audio.prototype.acts.Play,
+		cr.plugins_.GAMEEConnector.prototype.acts.SaveState,
 		cr.system_object.prototype.cnds.Compare,
 		cr.system_object.prototype.exps.floor,
 		cr.system_object.prototype.exps.random,
 		cr.plugins_.Sprite.prototype.exps.Width,
-		cr.system_object.prototype.exps.windowwidth,
+		cr.system_object.prototype.exps.layoutwidth,
 		cr.plugins_.Sprite.prototype.exps.Height,
-		cr.system_object.prototype.exps.windowheight,
+		cr.system_object.prototype.exps.layoutheight,
 		cr.system_object.prototype.cnds.While,
 		cr.plugins_.Sprite.prototype.acts.SetInstanceVar,
-		cr.plugins_.Sprite.prototype.acts.SetWidth,
 		cr.system_object.prototype.exps.abs,
 		cr.system_object.prototype.exps.cos,
 		cr.system_object.prototype.exps.sin,
 		cr.system_object.prototype.exps.sqrt,
 		cr.system_object.prototype.acts.StopLoop,
 		cr.plugins_.Sprite.prototype.acts.ToggleBoolInstanceVar,
+		cr.plugins_.Audio.prototype.acts.StopAll,
 		cr.system_object.prototype.cnds.TriggerOnce,
 		cr.plugins_.Text.prototype.acts.SetFontColor,
 		cr.system_object.prototype.exps.rgb,
-		cr.plugins_.Text.prototype.acts.SetInstanceVar,
 		cr.system_object.prototype.acts.Wait,
 		cr.system_object.prototype.acts.RestartLayout,
 		cr.plugins_.GAMEEConnector.prototype.acts.GameOver,

diff --git a/offline.js b/offline.js
@@ -1,1 +1,1 @@
-{"version":1519502314413,"fileList":["box2d.asm.js","c2runtime.js","data.js","start.js","style.css","offlineClient.js","images/shared-0-sheet0.png","opus.js","opus.asm.js","opus.asm.js.mem","opus.wasm.js","opus.wasm.wasm","media/hit.webm","media/powerup.webm","media/shoot.webm","media/charge.webm","icons/loading-logo.png","icons/icon-16.png","icons/icon-32.png","icons/icon-64.png","icons/icon-128.png","icons/icon-256.png","icons/icon-512.png","register-sw.js"]}
+{"version":1519576947399,"fileList":["box2d.asm.js","c2runtime.js","data.js","start.js","style.css","offlineClient.js","images/shared-0-sheet0.png","opus.js","opus.asm.js","opus.asm.js.mem","opus.wasm.js","opus.wasm.wasm","media/hit.webm","media/powerup.webm","media/shoot.webm","media/charge.webm","icons/loading-logo.png","icons/icon-16.png","icons/icon-32.png","icons/icon-64.png","icons/icon-128.png","icons/icon-256.png","icons/icon-512.png","register-sw.js"]}
